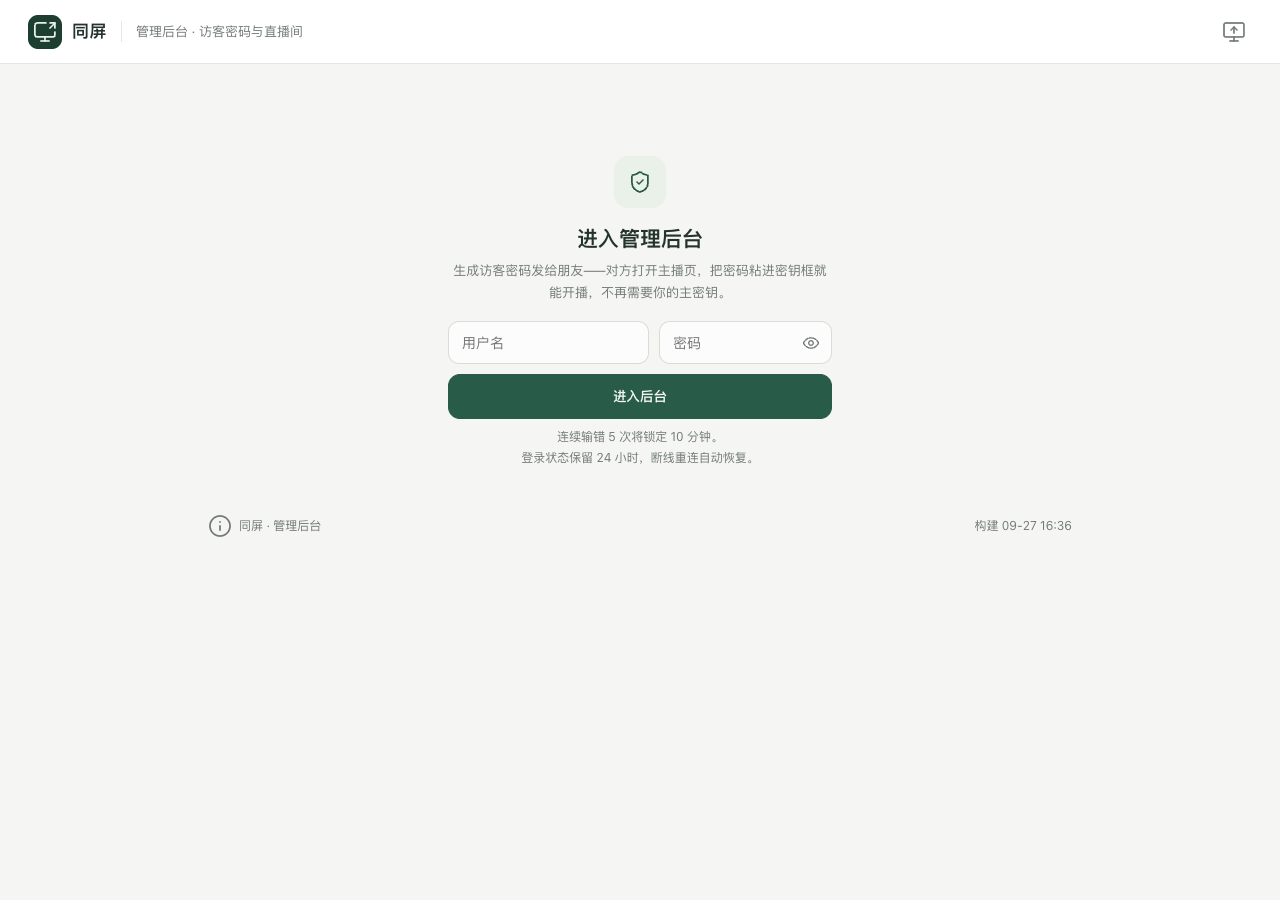
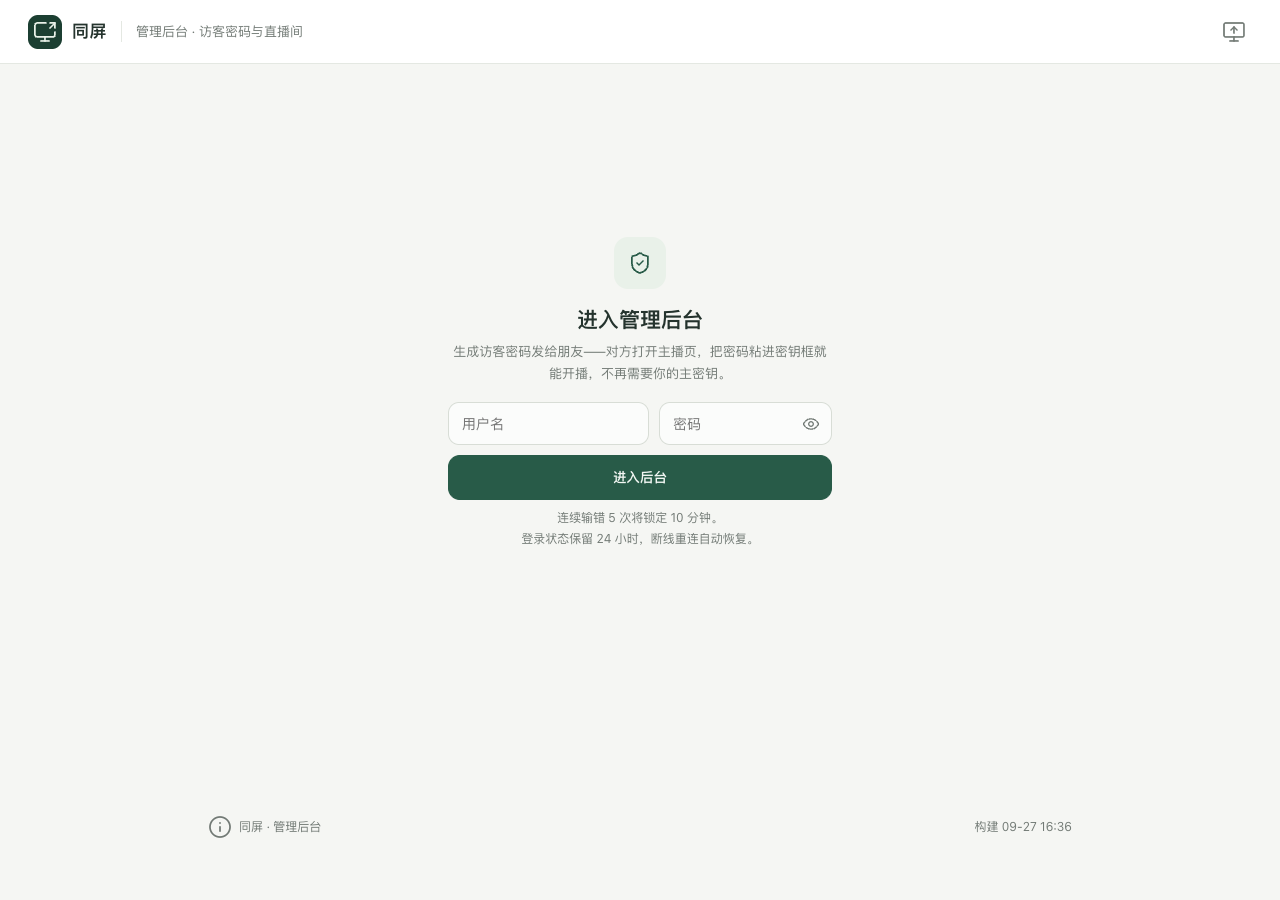
修复 theme.css 杂散引号吞规则（admin 登录页居中真正生效）

diff --git a/web/theme.css b/web/theme.css
@@ -273,7 +273,7 @@ body.viewer-dark{background:#000;color:#e8e8ee}
 
 /* ---------- 管理后台 ---------- */
 .admin-body{max-width:920px}
-".admin-body.login-mode{min-height:calc(100vh - 65px);display:flex;flex-direction:column}
+.admin-body.login-mode{min-height:calc(100vh - 65px);display:flex;flex-direction:column}
 .admin-body.login-mode #loginCard{margin-top:auto;margin-bottom:auto}
 .admin-body.login-mode .page-footer{margin-top:auto;padding-bottom:20px}
 .admin-login{max-width:440px;margin:40px auto 0;text-align:center;padding:30px 28px 24px}
